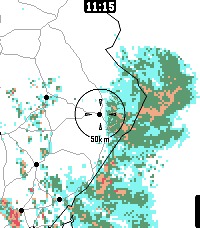
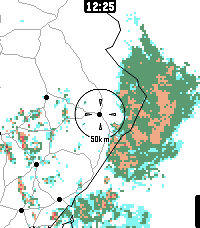
FEAT: Tweak rain level thresholds to be more "round" in mm/h

diff --git a/src/c/modules/radar_data.c b/src/c/modules/radar_data.c
@@ -3,29 +3,34 @@
 #define RADAR_DATA_BITS_PER_POINT 3
 #define RADAR_DATA_POINTS_PER_BYTE (8 / RADAR_DATA_BITS_PER_POINT)  // 2
 
-// dBZ to mm/h conversion table from Wikipedia:
+// dBZ to mm/h conversion using Z = 200 * R^1.6 (Marshall-Palmer).
+// See https://en.wikipedia.org/wiki/DBZ_(meteorology).
 // | dBz  | mm/h  | Comment                                                |
 // |------|-------|--------------------------------------------------------|
 // | 5    | 0.07  | Trace accumulation or mist                             |
+// | 7    | 0.1   | Trace accumulation or mist THRESHOLD                   |
 // | 10   | 0.15  | Trace accumulation or mist                             |
 // | 15   | 0.3   | Trace accumulation                                     |
+// | 18   | 0.5   | Trace accumulation to light rain THRESHOLD             |
 // | 20   | 0.6   | Light rain                                             |
 // | 25   | 1.3   | Light rain                                             |
+// | 28   | 2.0   | Light to moderate rain THRESHOLD                       |
 // | 30   | 2.7   | Light to moderate rain                                 |
 // | 35   | 5.6   | Moderate rain                                          |
+// | 39   | 10    | Moderate to heavy rain THRESHOLD                       |
 // | 40   | 11.53 | Moderate to heavy rain                                 |
 // | 45   | 23.7  | Heavy rain                                             |
-// | 50   | 48.6  | Heavy rain, small hail possible                        |
+// | 50   | 48.6  | Heavy to very heavy rain THRESHOLD                     |
 // | 55   | 100   | Very heavy rain, hail possible                         |
 // | 60   | 205   | Very heavy rain, hail likely                           |
 // | 65   | 421   | Very heavy rain, hail very likely, large hail possible |
 
 typedef enum {
     RAIN_LEVEL_THRESHOLD_MIST = 0,
-    RAIN_LEVEL_THRESHOLD_TRACE = 10,
-    RAIN_LEVEL_THRESHOLD_LIGHT = 20,
-    RAIN_LEVEL_THRESHOLD_MODERATE = 30,
-    RAIN_LEVEL_THRESHOLD_HEAVY = 40,
+    RAIN_LEVEL_THRESHOLD_TRACE = 7,
+    RAIN_LEVEL_THRESHOLD_LIGHT = 18,
+    RAIN_LEVEL_THRESHOLD_MODERATE = 28,
+    RAIN_LEVEL_THRESHOLD_HEAVY = 39,
     RAIN_LEVEL_THRESHOLD_VERY_HEAVY = 50,
 } RainLevelThreshold;
 

diff --git a/src/c/windows/legend/legend_window.c b/src/c/windows/legend/legend_window.c
@@ -23,12 +23,12 @@ typedef struct {
 } LegendEntry;
 
 static const LegendEntry s_entries[N_ENTRIES] = {
-    {RAIN_LEVEL_MIST,       "Mist",               "< 0.15 mm/h" },
-    {RAIN_LEVEL_TRACE,      "Trace accumulation", ">= 0.15 mm/h"},
-    {RAIN_LEVEL_LIGHT,      "Light",              ">= 0.6 mm/h" },
-    {RAIN_LEVEL_MODERATE,   "Moderate",           ">= 2.7 mm/h" },
-    {RAIN_LEVEL_HEAVY,      "Heavy",              ">= 11.5 mm/h"},
-    {RAIN_LEVEL_VERY_HEAVY, "Very heavy or hail", ">= 48.6 mm/h"},
+    {RAIN_LEVEL_MIST,       "Trace accumulation / mist", "< 0.1 mm/h" },
+    {RAIN_LEVEL_TRACE,      "Trace accumulation / mist", ">= 0.1 mm/h"},
+    {RAIN_LEVEL_LIGHT,      "Light",                     ">= 0.5 mm/h"},
+    {RAIN_LEVEL_MODERATE,   "Moderate",                  ">= 2 mm/h"  },
+    {RAIN_LEVEL_HEAVY,      "Heavy",                     ">= 10 mm/h" },
+    {RAIN_LEVEL_VERY_HEAVY, "Very heavy / hail",         ">= 50 mm/h" },
 };
 
 static Window* s_window;
